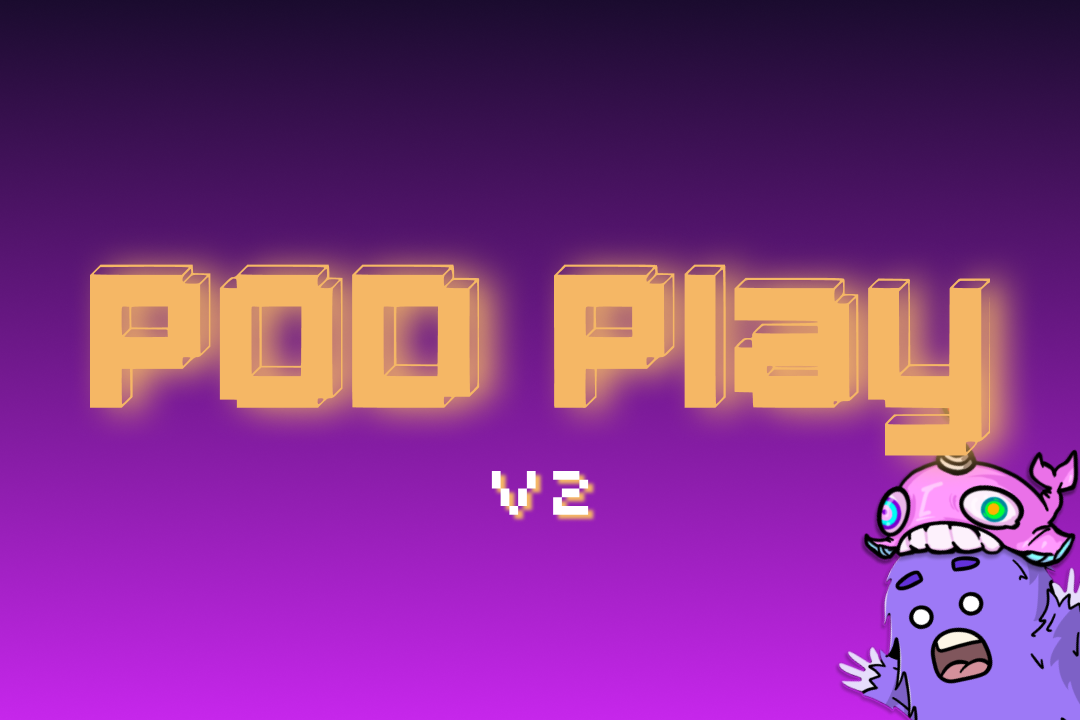
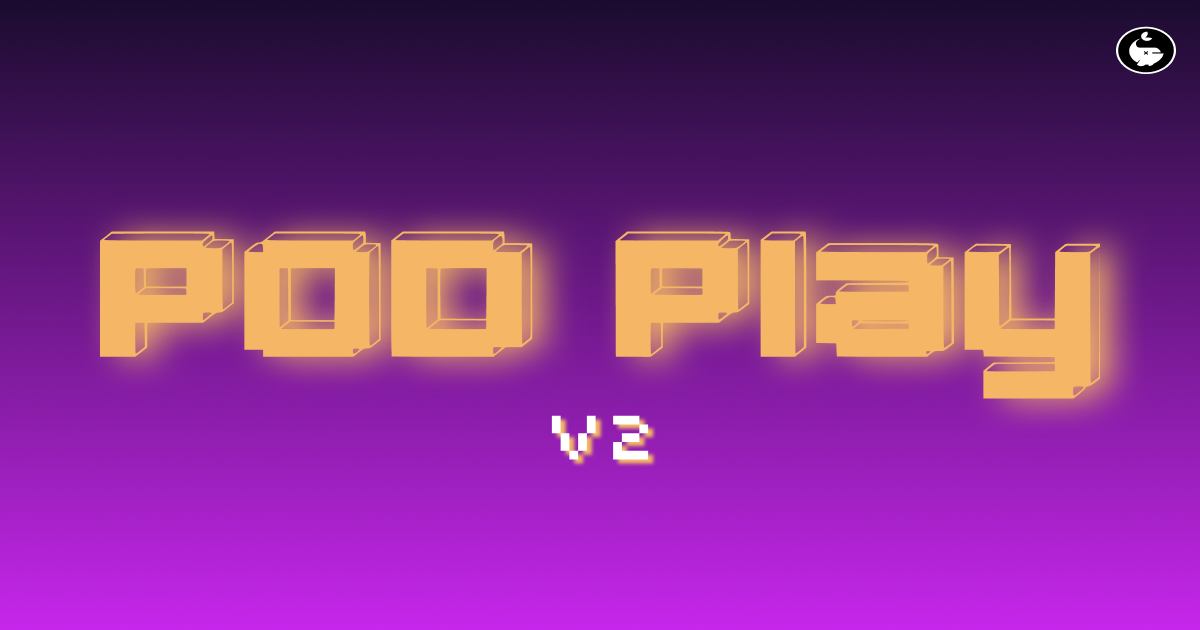
replacing images

Changed region(s): [[0.7639, 0.6333, 1.0, 1.0], [0.4583, 0.6333, 0.55, 0.754], [0.9167, 0.0302, 0.9778, 0.1206]]

diff --git a/src/app/layout.tsx b/src/app/layout.tsx
@@ -20,7 +20,7 @@ export default function RootLayout({
         {/* Preload game pieces first */}
         <link rel="preload" href="/scarygary.png" as="image" />
         <link rel="preload" href="/chili.png" as="image" />
-        <link rel="preload" href="/maxi.png" as="image" />
+        <link rel="preload" href="/mainlogo.png" as="image" />
         {/* Preload other critical assets */}
         <link rel="preload" href="/podplaylogo.png" as="image" />
         <link rel="preload" href="/game-board.png" as="image" />

diff --git a/src/components/game/GameBoard.tsx b/src/components/game/GameBoard.tsx
@@ -102,7 +102,7 @@ export default function GameBoard({
                     transition={{ type: "spring", stiffness: 260, damping: 20 }}
                   >
                     <Image 
-                      src="/maxi.png" 
+                      src="/mainlogo.png" 
                       alt="Maxi" 
                       width={64}
                       height={64}

diff --git a/src/utils/optimizations.ts b/src/utils/optimizations.ts
@@ -10,7 +10,7 @@ const CRITICAL_ASSETS = [
   // Game pieces (highest priority)
   '/scarygary.png',
   '/chili.png',
-  '/maxi.png',
+  '/mainlogo.png',
   // Core UI
   '/podplaylogo.png',
   '/game-board.png',
@@ -129,4 +129,4 @@ export const playSound = (soundUrl: string) => {
     audio.currentTime = 0;
     audio.play();
   }
-}; 
+};
